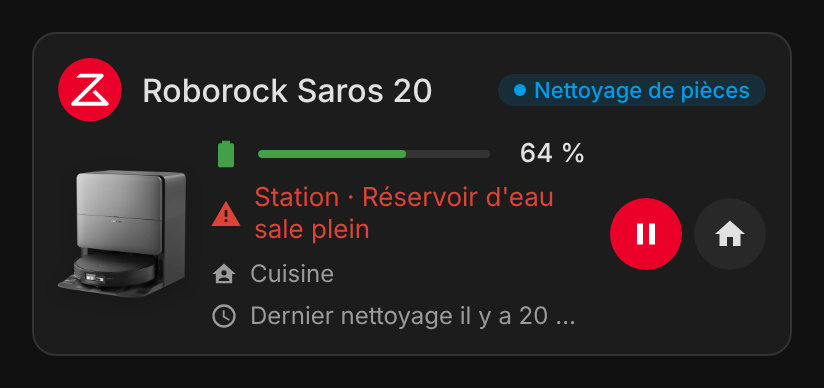
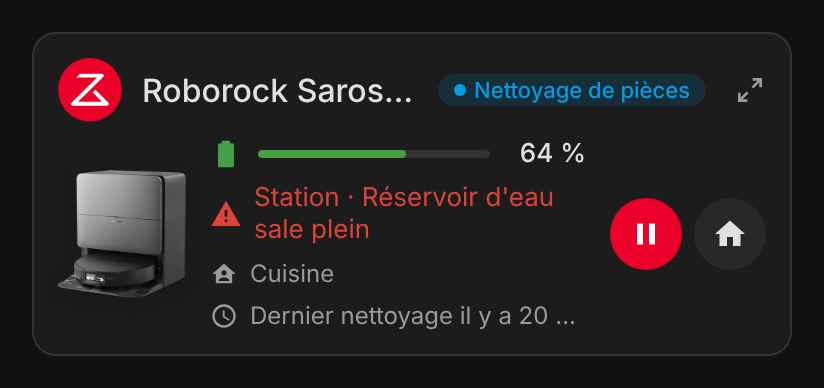
Mini card detail button: switch to the full card and back (1.9.0) (#14)
## Summary
- **Mini card detail button**: a small round button at the top right of
the header (after the status pill, `mdi:arrow-expand`, "Show the full
card" / "Afficher la carte complète") switches the mini card to the full
Roborock card's content (same device and options: battery, modes,
controls, routines, dock, maintenance, statistics, map). Zoomed in, it
becomes `mdi:arrow-collapse` ("Back to the compact view" / "Revenir à la
vue compacte").
- A click anywhere outside the card (document listener, capture phase,
added/removed with the card) brings the compact view back; clicks inside
the card or in a dialog opened from it (`ha-more-info-dialog`,
`ha-dialog`, `dialog`) do not. The button click is stopped (no header
tap or vacuum action); from the keyboard the focus moves to the new
button.
- New `zoom` option (default `true`), in the visual editor with EN/FR
label and helper, kept out of the YAML at its default.
- `getCardSize` / `getGridOptions` follow the zoomed state.
- `RoborockMiniCard` now extends `RoborockCard` and calls its
`_render()` when zoomed in: no duplicated markup (jscpd: 0 clones).
- README (feature, option row, screenshots), CHANGELOG 1.9.0, version
1.9.0.

## Screenshots
| | Light | Dark (French, cleaning) |
|---|---|---|
| Compact |
![mini](https://raw.githubusercontent.com/juju35/ha-roborock-card/feat/mini-zoom/screenshots/mini-card.png)
| ![mini
[…]

Changed region(s): [[0.4551, 0.1856, 0.9405, 0.2784]]

diff --git a/src/roborock-card.js b/src/roborock-card.js
@@ -52,6 +52,9 @@ const ICONS = {
   map: "M15,19L9,16.89V5L15,7.11M20.5,3C20.44,3 20.39,3 20.34,3L15,5.1L9,3L3.36,4.9C3.15,4.97 3,5.15 3,5.38V20.5A0.5,0.5 0 0,0 3.5,21C3.55,21 3.61,21 3.66,20.97L9,18.9L15,21L20.64,19.1C20.85,19 21,18.85 21,18.62V3.5A0.5,0.5 0 0,0 20.5,3Z",
   alert: "M13 14H11V9H13M13 18H11V16H13M1 21H23L12 2L1 21Z",
   chevron_down: "M7.41,8.58L12,13.17L16.59,8.58L18,10L12,16L6,10L7.41,8.58Z",
+  // mdi:arrow-expand and mdi:arrow-collapse (mini card detail button)
+  expand: "M10,21V19H6.41L10.91,14.5L9.5,13.09L5,17.59V14H3V21H10M14.5,10.91L19,6.41V10H21V3H14V5H17.59L13.09,9.5L14.5,10.91Z",
+  collapse: "M19.5,3.09L15,7.59V4H13V11H20V9H16.41L20.91,4.5L19.5,3.09M4,13V15H7.59L3.09,19.5L4.5,20.91L9,16.41V20H11V13H4Z",
   reset: "M12,4C14.1,4 16.1,4.8 17.6,6.3C20.7,9.4 20.7,14.5 17.6,17.6C15.8,19.5 13.3,20.2 10.9,19.9L11.4,17.9C13.1,18.1 14.9,17.5 16.2,16.2C18.5,13.9 18.5,10.1 16.2,7.7C15.1,6.6 13.5,6 12,6V10.6L7,5.6L12,0.6V4M6.3,17.6C3.7,15 3.3,11 5.1,7.9L6.6,9.4C5.5,11.6 5.9,14.4 7.8,16.2C8.3,16.7 8.9,17.1 9.6,17.4L9,19.4C8,19 7.1,18.4 6.3,17.6Z",
 };
 
@@ -140,6 +143,10 @@ const STRINGS = {
     map_always: "Always",
     language: "Language",
     lang_auto: "Automatic",
+    zoom: "Detail button",
+    zoom_helper: "Button at the top right that switches the mini card to the full card and back",
+    zoom_in: "Show the full card",
+    zoom_out: "Back to the compact view",
     // States and values
     s_charging: "Charging",
     s_charging_complete: "Charged",
@@ -283,6 +290,10 @@ const STRINGS = {
     map_always: "Toujours",
     language: "Langue",
     lang_auto: "Automatique",
+    zoom: "Bouton de détail",
+    zoom_helper: "Bouton en haut à droite qui passe la mini-carte en carte complète et inversement",
+    zoom_in: "Afficher la carte complète",
+    zoom_out: "Revenir à la vue compacte",
     s_charging: "En charge",
     s_charging_complete: "Chargé",
     s_docked: "Sur la base",
@@ -562,6 +573,11 @@ const BASE_STYLE = `
   .room.all { color: var(--secondary-text-color); }
   .room.all.on { color: var(--rr-red); }
   .rooms-actions { display: flex; flex-wrap: wrap; gap: 8px; justify-content: flex-end; }
+  .zoom { all: unset; flex: none; cursor: pointer; width: 24px; height: 24px; margin: -4px -4px -4px 0; border-radius: 50%;
+          display: grid; place-items: center; color: var(--secondary-text-color); }
+  .zoom .icon { width: 16px; height: 16px; }
+  .zoom:hover { background: color-mix(in srgb, var(--rr-idle) 16%, transparent); color: var(--primary-text-color); }
+  .zoom:focus-visible { outline: 2px solid var(--primary-color, var(--rr-red)); outline-offset: 1px; }
 `;
 
 // In-card confirmation popup, as in ha-system-monitor-card and ha-iptv: a backdrop over the card with a
@@ -578,6 +594,12 @@ const DIALOG_STYLE = `
 
 // Element names of Home Assistant dialogs (more-info opened from the card, among others).
 const DIALOG_TAGS = new Set(["HA-MORE-INFO-DIALOG", "HA-DIALOG", "DIALOG"]);
+
+// True for a click outside `card` that is not in a dialog opened from it (more-info, say).
+const isOutside = (card, ev) => {
+  const path = ev.composedPath();
+  return !path.includes(card) && !path.some((n) => DIALOG_TAGS.has(n.tagName));
+};
 
 // After the confirmation popup closes, clicks on the card are ignored for this long: the second click of a double
 // click on OK would otherwise land on what lies under the button (the battery, an action button).
@@ -641,9 +663,7 @@ class RoborockBase extends HTMLElement {
   connectedCallback() {
     // Clicks inside a dialog (the more-info opened from the card) leave the card as it is.
     this._onOutside ??= (ev) => {
-      if (!this._toggled?.size && !this._confirm) return;
-      const path = ev.composedPath();
-      if (path.includes(this) || path.some((n) => DIALOG_TAGS.has(n.tagName))) return;
+      if ((!this._toggled?.size && !this._confirm) || !isOutside(this, ev)) return;
       this._toggled = new Set();
       if (this._confirm) this._closeConfirm();
       else this._update();
@@ -783,6 +803,7 @@ class RoborockBase extends HTMLElement {
     const { action, entity, label } = el.dataset;
     if (this._roomAction(action, entity, el.dataset.room)) return;
     if (action === "zoom_map") return this._zoomMap(entity);
+    if (action === "zoom") return this._toggleZoom(ev);
     if (action === "toggle_section") {
       const key = el.dataset.section;
       this._toggled = new Set(this._toggled);
@@ -937,7 +958,13 @@ class RoborockBase extends HTMLElement {
             ? `<span class="chip clickable ${statusClass(status.state)}" data-entity="${esc(status.entity)}"><span class="dot"></span>${esc(status.text)}</span>`
             : ""
         }
+        ${this._zoomButton()}
       </div>`;
+  }
+
+  // Detail button at the far right of the header (mini card only).
+  _zoomButton() {
+    return "";
   }
 
   _errorCard(key) {
@@ -1498,24 +1525,60 @@ const MINI_STYLE = `
   .rooms-wrap { padding: 0 12px 12px; }
 `;
 
-class RoborockMiniCard extends RoborockBase {
+// The mini card is a full card drawn compact: its detail button (top right, `zoom: false` removes it) switches it
+// to the full card's content and back, and a click anywhere else on the page brings the compact view back.
+class RoborockMiniCard extends RoborockCard {
+  constructor() {
+    super();
+    // Clicks inside a dialog (the more-info opened from the card) leave it zoomed in.
+    this._onUnzoom = (ev) => {
+      if (this._zoomed && isOutside(this, ev)) this._setZoom(false);
+    };
+  }
+
   static getConfigElement() {
     return document.createElement("roborock-mini-card-editor");
   }
 
-  static getStubConfig(hass) {
-    return RoborockCard.getStubConfig(hass);
+  connectedCallback() {
+    super.connectedCallback();
+    document.addEventListener("click", this._onUnzoom, true);
+  }
+
+  disconnectedCallback() {
+    super.disconnectedCallback();
+    document.removeEventListener("click", this._onUnzoom, true);
   }
 
   getCardSize() {
-    return 3;
+    return this._zoomed ? super.getCardSize() : 3;
   }
 
   getGridOptions() {
-    return { columns: 6, min_columns: 6 };
+    return this._zoomed ? super.getGridOptions() : { columns: 6, min_columns: 6 };
+  }
+
+  _zoomButton() {
+    if (this._config.zoom === false) return "";
+    const z = this._zoomed;
+    const label = esc(this._t(z ? "zoom_out" : "zoom_in"));
+    return `<button class="zoom" data-action="zoom" title="${label}" aria-label="${label}">${svgIcon(z ? ICONS.collapse : ICONS.expand)}</button>`;
+  }
+
+  _setZoom(on) {
+    this._zoomed = on;
+    this._update();
+  }
+
+  // The click never reaches the header or an action (stopped in _onClick). From the keyboard (Enter / Space: no
+  // click count), the focus moves to the button that replaced this one.
+  _toggleZoom(ev) {
+    this._setZoom(!this._zoomed);
+    if (ev.detail === 0) this.shadowRoot.querySelector(".zoom")?.focus();
   }
 
   _render() {
+    if (this._zoomed) return super._render();
     const { dev, error } = findDevice(this._hass, this._config);
     if (error) return this._errorCard(error);
     this._dev = dev;
@@ -1623,8 +1686,10 @@ class RoborockEditorBase extends HTMLElement {
     if (!this._form) {
       this._form = document.createElement("ha-form");
       this._form.computeLabel = (s) => t(this._hass, this._config, s.name);
-      this._form.computeHelper = (s) =>
-        s.name === "crop" && this._mapSize ? t(this._hass, this._config, "map_size", { w: this._mapSize.w, h: this._mapSize.h }) : undefined;
+      this._form.computeHelper = (s) => {
+        if (s.name === "zoom") return t(this._hass, this._config, "zoom_helper");
+        return s.name === "crop" && this._mapSize ? t(this._hass, this._config, "map_size", { w: this._mapSize.w, h: this._mapSize.h }) : undefined;
+      };
       this._form.addEventListener("value-changed", (ev) => {
         ev.stopPropagation();
         const config = { ...ev.detail.value };
@@ -1742,6 +1807,7 @@ class RoborockMiniCardEditor extends RoborockEditorBase {
     return [
       ["show_controls", true],
       ["room_selection", true],
+      ["zoom", true],
     ];
   }
 }

diff --git a/README.md b/README.md
@@ -32,6 +32,7 @@ The cards are built on top of the [Roborock integration](https://www.home-assist
 - Maintenance: main brush, side brush, filter, sensors, dock strainer… with remaining time and a reset button (with confirmation) when the integration provides one
 - Statistics: last clean, number of cleanings, total area and time
 - Collapsible sections (statistics and dock folded by default)
+- Detail button on the mini card (top right): it switches the mini card to the full card's content and back; a click anywhere outside the card brings the compact view back
 - Map of the current floor while the robot is cleaning (or always, or never), with optional cropping, enlarged full screen on click
 - Click any value to open its Home Assistant history (more-info dialog)
 - Click the Roborock logo to open [roborock.com](https://www.roborock.com)
@@ -120,6 +121,7 @@ image: auto
 show_logo: true
 show_controls: true
 room_selection: true
+zoom: true
 language: fr
 ```
 
@@ -133,6 +135,7 @@ language: fr
 | `show_logo` | both | `true` | Show the Roborock logo (opens [roborock.com](https://www.roborock.com) in a new tab) |
 | `show_controls` | both | `true` | Start / pause, stop, dock and locate buttons (robot vacuums), dock actions (empty bin, wash and dry mop) and maintenance reset buttons |
 | `room_selection` | both | `true` | The Start button opens the room selector; `false` starts a full cleaning right away |
+| `zoom` | mini | `true` | Detail button at the top right of the mini card: it shows the full card's content (with the same options, so `show_dock`, `show_map`, `collapsed`… can be set on the mini card too) and switches back to the compact view; a click outside the card also brings the compact view back. `false` removes the button |
 | `show_modes` | full | `true` | Cleaning mode, suction power, mop intensity and route |
 | `show_routines` | full | `true` | Routines buttons |
 | `show_dock` | full | `true` | Dock status |
@@ -166,6 +169,12 @@ Click the map to open it full screen; click anywhere or press Escape to close it
 |---|---|
 | ![card](screenshots/card.png) | ![card dark](screenshots/card-dark.png) |
 | ![mini card](screenshots/mini-card.png) | ![mini card dark](screenshots/mini-card-dark.png) |
+
+Mini card zoomed in with its detail button (top right, click it again or anywhere outside the card to go back):
+
+| Light | Dark (French, cleaning) |
+|---|---|
+| ![mini card zoomed in](screenshots/mini-card-zoom.png) | ![mini card zoomed in dark](screenshots/mini-card-zoom-dark.png) |
 
 Room selector (opened by the Start button):
 

diff --git a/CHANGELOG.md b/CHANGELOG.md
@@ -1,5 +1,15 @@
 # Changelog
 
+## 1.9.0
+
+### Changes
+- Mini card: a small detail button at the top right of the header (after the status pill) switches it to the full card's content, with the same device and options, and back. A click anywhere outside the card brings the compact view back; clicks inside the card or in a dialog opened from it (more-info) do not. From the keyboard, the focus stays on the button.
+- New `zoom` option (default `true`, in the visual editor too): `zoom: false` removes the button.
+- Zoomed in, the mini card reports the full card's size to the dashboard.
+
+### Maintenance
+- The mini card now builds on the full card (no duplicated markup); tests for the zoom (23 in all) and two new screenshots of the zoomed-in mini card.
+
 ## 1.8.2
 
 ### Fixes
